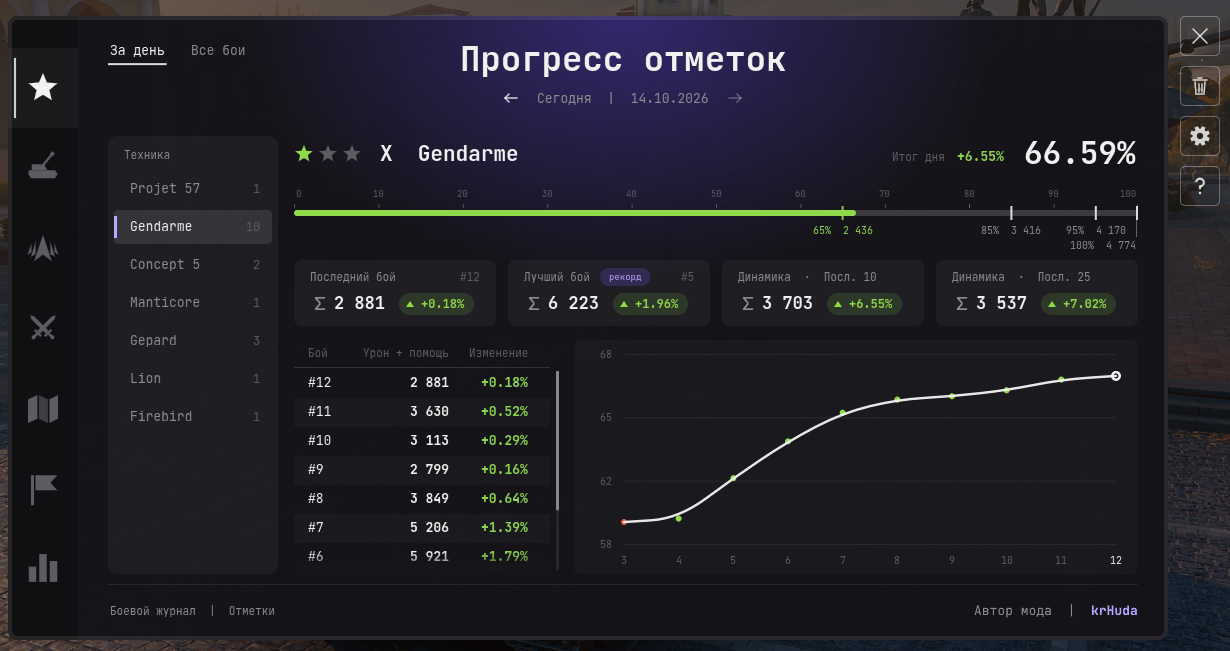
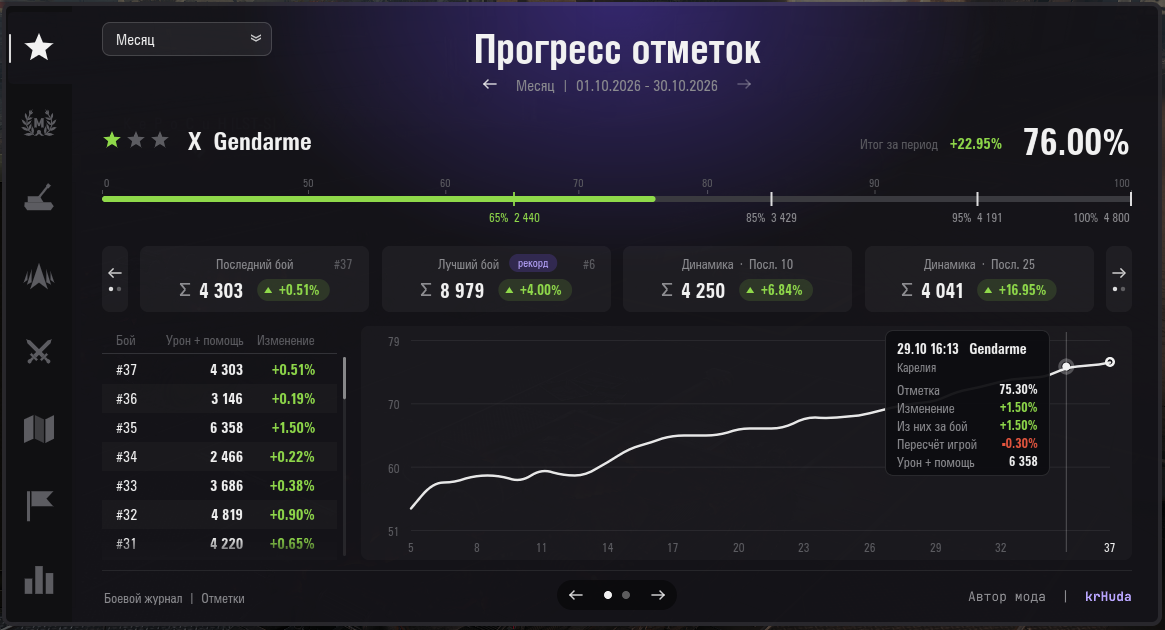
README and screenshots (v1.13.0)

diff --git a/README.md b/README.md
@@ -4,31 +4,30 @@
 
 ## Скриншоты
 
-<details open>
-<summary><b>Окно мода — прогресс отметок</b></summary>
+![Окно мода: прогресс отметок, сводка отметок, «Мастер», история боёв, «Разбор», цели](screenshots/window.gif)
 
-![Окно мода — прогресс отметок](screenshots/marks.png)
+<table>
+<tr>
+<td align="center"><a href="screenshots/marks.png"><img src="screenshots/marks.png" width="270" alt="Прогресс отметок"></a><br>Прогресс отметок</td>
+<td align="center"><a href="screenshots/marks_summary.png"><img src="screenshots/marks_summary.png" width="270" alt="Сводка отметок"></a><br>Сводка отметок</td>
+<td align="center"><a href="screenshots/mastery.png"><img src="screenshots/mastery.png" width="270" alt="Мастер"></a><br>«Мастер»</td>
+</tr>
+<tr>
+<td align="center"><a href="screenshots/battles.png"><img src="screenshots/battles.png" width="270" alt="Бои: выбор техники"></a><br>Бои: выбор техники</td>
+<td align="center"><a href="screenshots/analysis.png"><img src="screenshots/analysis.png" width="270" alt="Разбор"></a><br>«Разбор»</td>
+<td align="center"><a href="screenshots/goals.png"><img src="screenshots/goals.png" width="270" alt="Цели"></a><br>Цели</td>
+</tr>
+<tr>
+<td align="center" colspan="3"><a href="screenshots/hangar.png"><img src="screenshots/hangar.png" width="230" alt="Панель в ангаре"></a> <a href="screenshots/battle.png"><img src="screenshots/battle.png" width="230" alt="Панель в бою"></a><br>Панели в ангаре и в бою</td>
+</tr>
+</table>
 
-</details>
-
-<details>
-<summary><b>Панель в ангаре</b></summary>
-
-![Панель в ангаре](screenshots/hangar.png)
-
-</details>
-
-<details>
-<summary><b>Панель в бою</b></summary>
-
-![Панель в бою](screenshots/battle.png)
-
-</details>
+Картинки в таблице открываются в полном размере по клику.
 
 ## Установка
 
 1. Скачайте файл `battlejournal_<версия>.mtmod` на странице [релизов](../../releases/latest).
-2. Положите его в папку `<папка игры>\mods\<номер версии игры>\` — это папка с номером текущей версии клиента, например `mods\1.45.0.0\`. После обновления игры мод, как и другие моды, переносится в папку новой версии.
+2. Положите его в папку `<папка игры>\mods\<номер версии игры>\` - это папка с номером текущей версии клиента, например `mods\1.46.0.0\`. После обновления игры мод, как и другие моды, переносится в папку новой версии.
 3. Запустите игру.
 
 ## Что умеет
@@ -36,32 +35,41 @@
 **Отметки на стволе**
 - текущий процент, пороги 65 / 85 / 95 / 100% в уроне с помощью;
 - история изменений по боям, график, лучший и последний бой, динамика за 10 и 25 боёв;
-- в бою — прогноз процента «если бой закончится сейчас» и сколько урона с помощью нужно, чтобы не потерять процент;
-- если процент изменился сильнее, чем можно ожидать от одного боя, подсказка покажет, сколько дал сам бой, а сколько — пересчёт: игра периодически обновляет пороги отметок по статистике всех игроков, и процент может сдвинуться даже без вашего боя.
+- в окне - танк из ангара или выбранный в сводке; вторая страница - сводка по танкам: сколько танков с тремя, двумя, одной отметкой и без отметок, сколько отметок взято и сколько осталось, и танки, которым ближе всего до следующей отметки (клик - история танка); фильтр по названию, уровню, нации и классу, в ангаре или все на аккаунте;
+- карточки порогов: сколько урона с помощью нужно для каждой отметки и сколько не хватает;
+- в бою - прогноз процента «если бой закончится сейчас» и сколько урона с помощью нужно, чтобы не потерять процент;
+- если процент изменился сильнее, чем можно ожидать от одного боя, подсказка покажет, сколько дал сам бой, а сколько - пересчёт: игра периодически обновляет пороги отметок по статистике всех игроков, и процент может сдвинуться даже без вашего боя.
 
-**Артиллерия** — урон от САУ противника, попадания, накрытия, оглушения, повреждённые модули; в бою — отдельная вкладка, если у противника есть САУ.
+Шкала прогресса - три вида на выбор в настройках: сжатая (по умолчанию: участок до 50% сжат, важная часть 50-100% растянута), «лупа» (±8% вокруг текущего процента) и «до отметки» (от прошлого порога до следующего). У «лупы» и «до отметки» сверху тонкая полная шкала с рамкой показанного участка. В бою можно показывать полную шкалу или только путь до следующей отметки.
 
-**Натиск** — рейтинг, ранг, изменения по боям и картам.
+![Виды шкалы отметок](screenshots/marks_scale.gif)
 
-**Бои** — история за день или за всё время (урон, помощь, фраги, процент побед), рекорды.
+**Артиллерия** - урон от САУ противника, попадания, накрытия, оглушения, повреждённые модули; в бою - отдельная вкладка, если у противника есть САУ.
 
-**Карты** — на каких картах вы играете чаще и успешнее.
+**Натиск** - рейтинг, ранг, изменения по боям и картам.
 
-**Цели** — свои цели (средний урон, победы, число боёв, отметка, рейтинг Натиска) за сессию, день или последние N боёв; прогресс виден на панели в ангаре и в бою.
+**Мастер** (знаки классности) - слева выбор танка с фильтрами (название, уровни, нации флагами, классы, знак, в ангаре или все на аккаунте). По всем танкам - сколько каких знаков и где «Мастер» ближе всего; по танку - знаки в последних 10-100 боях или за период, пороги чистого опыта всех степеней и шкала с последним боем. Вторая страница - бои за период с полученным знаком.
 
-**Разбор** (эксперимент, по умолчанию выключен) — оценка последних боёв, советы и сравнение со «сильными игроками» на том же танке. Сильный игрок — три отметки и не меньше 100 боёв на танке (для редких танков — две отметки, об этом есть пометка).
+**Бои** - история за день, 3 дня, неделю, месяц или всё время (урон, помощь, фраги, процент побед), рекорды. Дни и периоды листаются стрелками. Кнопка «Техника» открывает слева шторку с фильтрами и списком танков: история по одному танку или по всем танкам фильтра (шторку можно закрепить колонкой). Клик по точке графика за несколько дней открывает этот день со всеми боями.
 
-**Путеводитель** — короткая экскурсия по окну мода: открывается при первом запуске, кнопкой «?» и из настроек.
+**Карты** - на каких картах вы играете чаще и успешнее.
+
+**Цели** - свои цели за сессию, день или последние N боёв: средний урон, помощь, натанкованный урон, засвет, фраги, точность, выживаемость, победы, число боёв, отметка, знак классности на танке (в бою - примерный прогноз знака при победе и поражении), рейтинг Натиска. Цели можно ставить прямо из советов «Разбора». Считаются по случайным боям; прогресс виден на панели в ангаре и в бою.
+
+**Разбор** (эксперимент, по умолчанию выключен) - профиль игры на танке или на всех танках фильтра (лепестковая диаграмма: урон, помощь, натанкованный урон, засвет, точность, выживаемость): последние бои против вашей обычной игры, советы с кнопкой «В цели»; вторая страница - последние 30 боёв с оценкой и разбором выбранного. Сравнение с сильными игроками на том же танке - в разработке.
+
+**Панели** - в ангаре и в бою панель можно свернуть в мини-панель (одна строка с главным значением) или спрятать до значка и вернуть обратно одним кликом - в том же размере. Замок закрепляет окно и панели на месте, у панели в бою есть свой замок. Панель в бою показывается в случайных боях и в Натиске.
+
+**Путеводитель** - короткая экскурсия по окну мода: открывается при первом запуске и кнопкой «?». У кнопок окна и панели - всплывающие подсказки.
 
 ## Настройки
 
-Шестерёнка справа от окна мода: какие вкладки показывать, вид панелей в ангаре и в бою, прозрачность и масштаб панели в бою, шрифт, начало игрового дня, восстановление удалённых боёв, выгрузка истории в CSV.
+Шестерёнка справа от окна мода: какие вкладки показывать, вид панелей в ангаре и в бою, прозрачность и масштаб панели в бою, шрифт, начало игрового дня, восстановление удалённых боёв, выгрузка истории в CSV, перенос мода в новую версию игры (по умолчанию выключен: когда лаунчер заранее скачал обновление, мод копирует себя в папку новой версии), проверка новой версии мода и её скачивание по кнопке.
 
 ## Данные и приватность
 
-- История боёв хранится только у вас на компьютере: `%APPDATA%\Lesta\MirTankov\mods\battlejournal\`.
-- Мод не использует сторонние сайты и веб-API — только данные, которые клиент игры получает сам (итоги боёв, досье, реплеи).
-- Сбор данных для сравнения с сильными игроками включается отдельно в настройках («Данные сильных игроков для «Разбора»»). Мод запрашивает профили игроков штатными запросами клиента — так же, как окно профиля игрока. В первые минуты загрузки FPS в ангаре может проседать.
+- История боёв хранится только у вас на компьютере - в папке настроек игры, в подпапке `mods\battlejournal\`. Обычно это `%APPDATA%\Lesta\MirTankov\mods\battlejournal\`.
+- Мод не использует сторонние сайты и веб-API - только данные, которые клиент игры получает сам (итоги боёв, досье, реплеи).
 - В бою мод показывает только ваши собственные данные и не даёт никакой информации о противниках сверх обычного интерфейса.
 
 ## Если что-то не так
